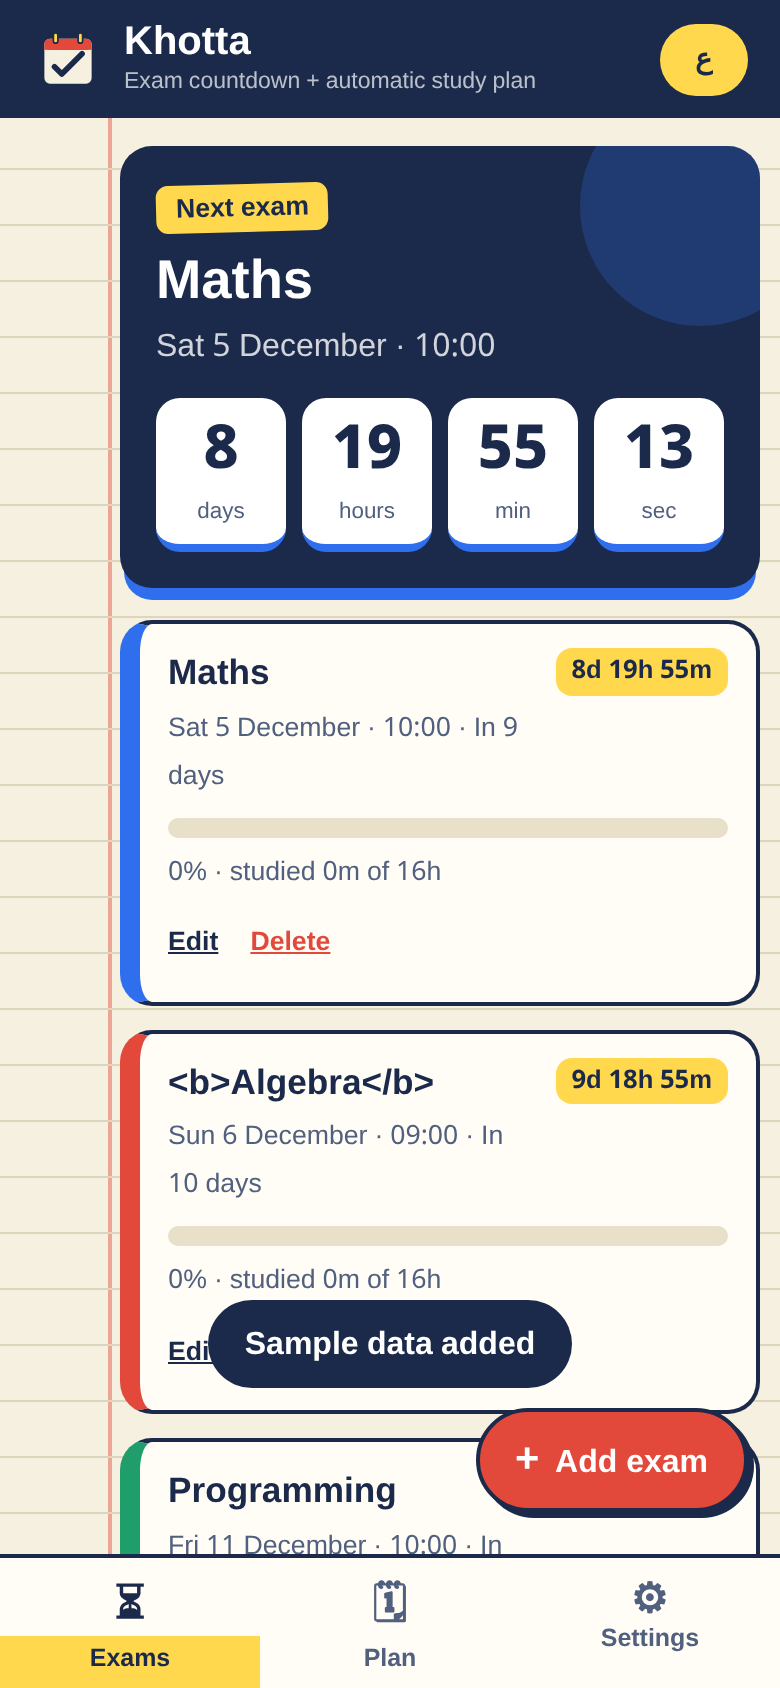
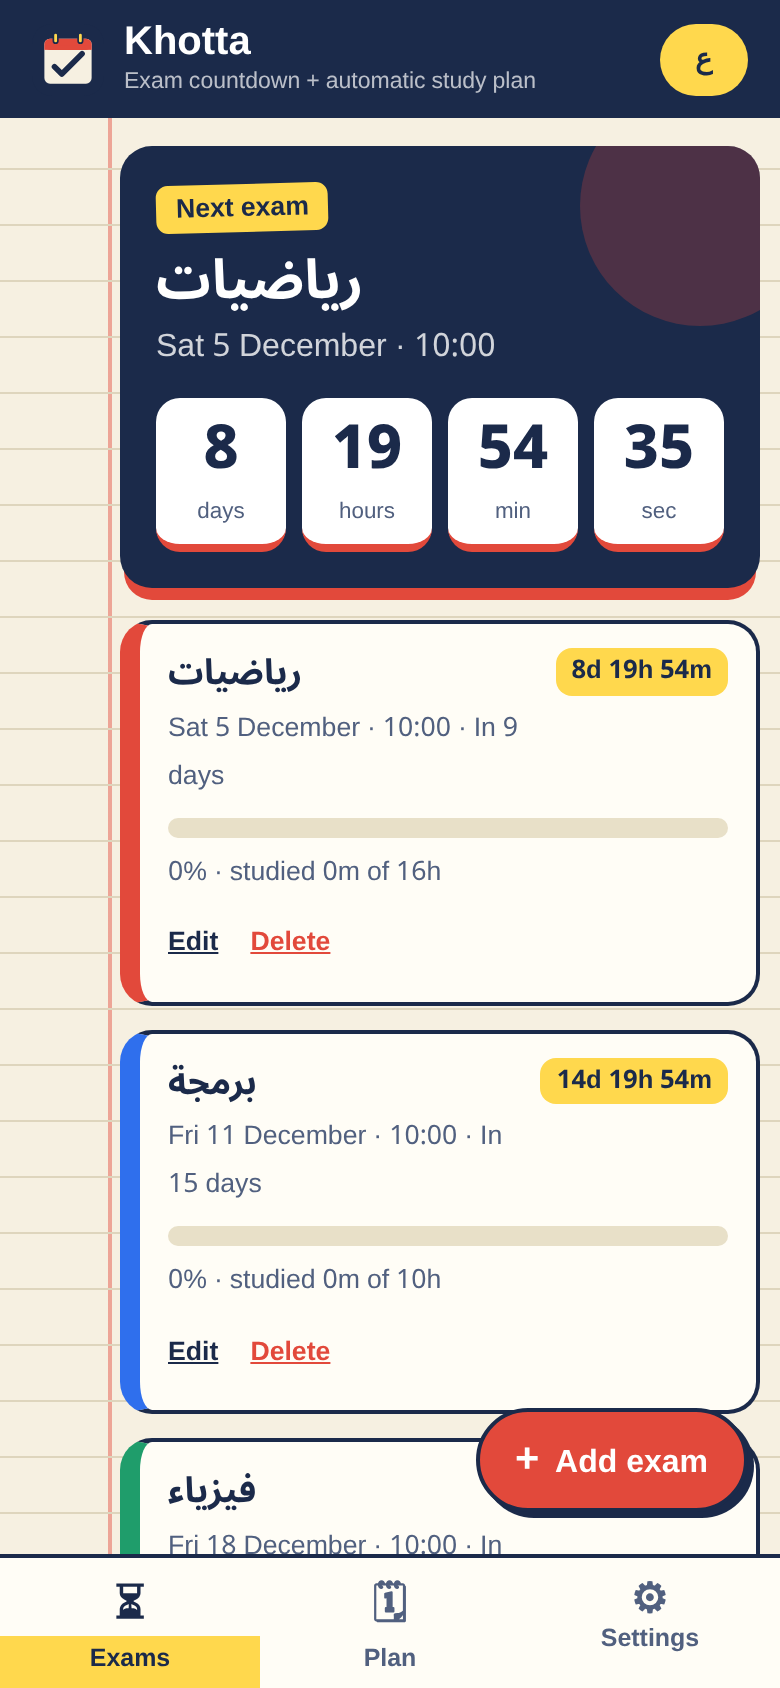
Clean sample-data screenshots

diff --git a/tests/shots.js b/tests/shots.js
@@ -1,0 +1,15 @@
+const puppeteer = require('puppeteer-core');
+(async () => {
+  const BASE = process.env.BASE || 'http://localhost:8099/';
+  const b = await puppeteer.launch({ executablePath: '/usr/bin/google-chrome', args: ['--no-sandbox'], headless: 'new' });
+  const p = await b.newPage(); await p.setViewport({ width: 390, height: 844, deviceScaleFactor: 2, isMobile: true, hasTouch: true });
+  await p.goto(BASE, { waitUntil: 'networkidle0' }); await p.evaluate(() => localStorage.clear()); await p.reload({ waitUntil: 'networkidle0' });
+  const wait = ms => new Promise(r => setTimeout(r, ms));
+  if (await p.evaluate(() => document.documentElement.lang) === 'en') { await p.click('#langBtn'); }
+  await p.click('[data-tab=settings]'); await p.click('#sampleBtn'); await wait(2500);
+  await p.click('[data-tab=exams]'); await wait(300); await p.screenshot({ path: 'docs/5-ar.png' });
+  await p.click('[data-tab=plan]'); await wait(300); await p.screenshot({ path: 'docs/2-plan-ar.png' });
+  await p.click('#langBtn'); await p.click('[data-tab=exams]'); await wait(2500); await p.screenshot({ path: 'docs/1-countdown.png' });
+  await p.click('[data-tab=plan]'); await wait(300); await p.screenshot({ path: 'docs/2-plan.png' });
+  await b.close();
+})();
